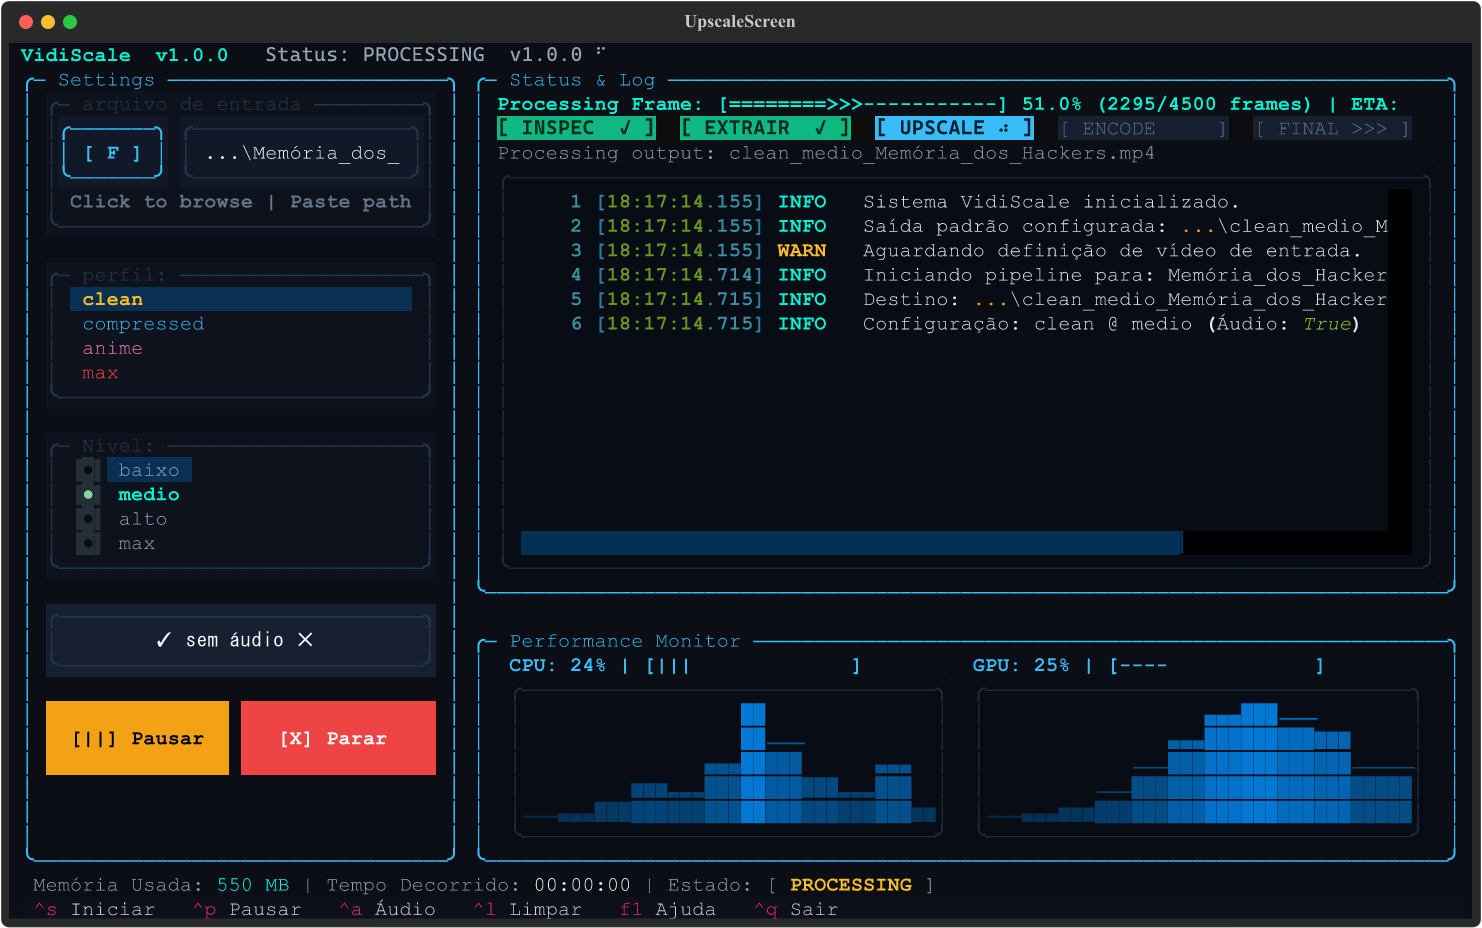
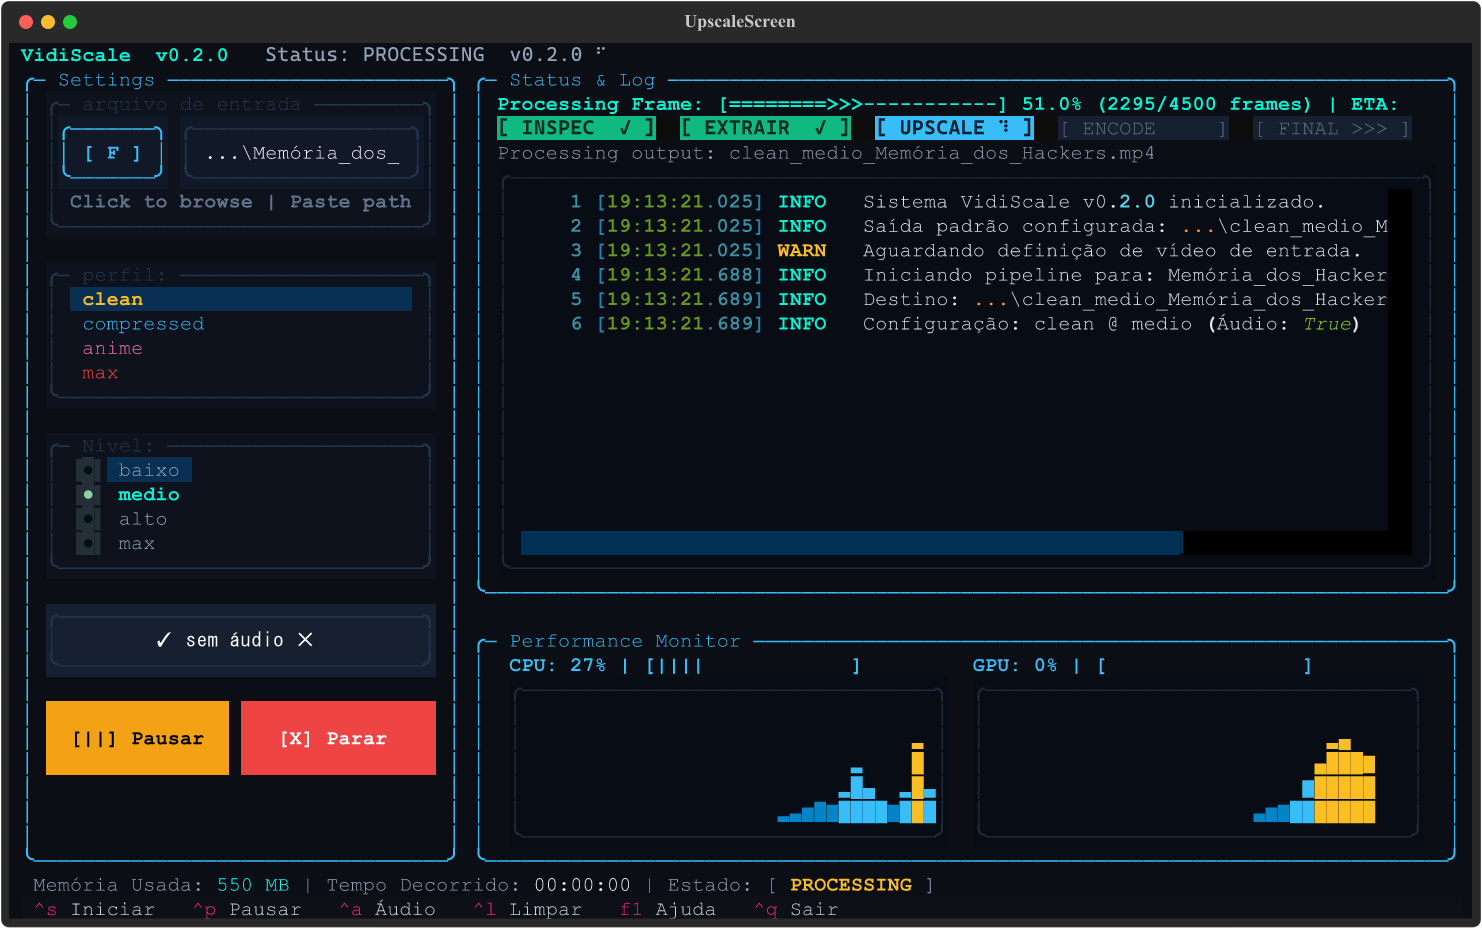
fix(ui): synchronize TUI version with pyproject and fix live sparkline monitor rendering

diff --git a/upscaler/ui/app.py b/upscaler/ui/app.py
@@ -1,5 +1,7 @@
 from __future__ import annotations
 
+import asyncio
+import importlib.metadata
 import os
 import re
 import subprocess
@@ -7,6 +9,11 @@ import sys
 import time
 from pathlib import Path
 from typing import Optional
+
+try:
+    __version__ = importlib.metadata.version("upscale-video")
+except Exception:
+    __version__ = "0.2.0"
 
 try:
     import psutil
@@ -38,7 +45,7 @@ from textual.widgets.option_list import Option
 from ..core.media import inspect_video, resolve_binary
 from ..core.models import SIMPLE_LEVELS
 from ..core.pipeline import UpscaleOptions, upscale
-from .widgets import ChevronPipeline, GradientStatusBar, NumberedLog, VideoDirectoryTree
+from .widgets import ChevronPipeline, GradientStatusBar, MetricSparkline, NumberedLog, VideoDirectoryTree
 
 
 def build_output_path(input_path: str | Path, profile: str, level: str) -> Path:
@@ -69,6 +76,24 @@ def resolve_input_path(value: str | Path | None) -> Path:
     if not raw:
         raise FileNotFoundError("Caminho de entrada vazio")
     return Path(raw).expanduser()
+
+
+def _sample_gpu_utilization() -> int:
+    try:
+        flags = subprocess.CREATE_NO_WINDOW if sys.platform == "win32" else 0
+        res = subprocess.run(
+            ["nvidia-smi", "--query-gpu=utilization.gpu", "--format=csv,noheader,nounits"],
+            capture_output=True,
+            text=True,
+            timeout=1,
+            creationflags=flags,
+        )
+        if res.returncode == 0 and res.stdout.strip():
+            return int(res.stdout.strip().split("\n")[0].strip())
+    except Exception:
+        pass
+    return 0
+
 
 
 class FileBrowserModal(ModalScreen[Optional[Path]]):
@@ -183,6 +208,7 @@ class UpscaleScreen(App[None]):
         self._monitor_timer = None
         self._cpu_history = [5, 8, 12, 18, 15, 25, 45, 30, 20, 15]
         self._gpu_history = [8, 12, 15, 22, 35, 50, 65, 70, 60, 55]
+        self._current_gpu = 0
         if self.input_path:
             self.output_path = build_output_path(self.input_path, "clean", "medio")
 
@@ -230,8 +256,8 @@ class UpscaleScreen(App[None]):
         with Container(id="root"):
             # Header Superior Minimalista
             with Horizontal(id="header-bar"):
-                yield Static("VidiScale  v1.0.0", id="app-brand")
-                yield Static("Status: READY  v1.0.0 ⠋", id="header-status")
+                yield Static(f"VidiScale  v{__version__}", id="app-brand")
+                yield Static(f"Status: READY  v{__version__} ⠋", id="header-status")
 
             # Layout Principal em 2 Colunas
             with Horizontal(id="main-layout"):
@@ -286,10 +312,10 @@ class UpscaleScreen(App[None]):
                         with Horizontal(id="perf-split"):
                             with Vertical(id="cpu-col", classes="perf-col"):
                                 yield Static("CPU: 0% | [                ]", id="cpu-label", classes="perf-col-title", markup=False)
-                                yield Sparkline(data=self._cpu_history, id="cpu-sparkline")
+                                yield MetricSparkline(data=self._cpu_history, id="cpu-sparkline")
                             with Vertical(id="gpu-col", classes="perf-col"):
                                 yield Static("GPU: 0% | [----------------]", id="gpu-label", classes="perf-col-title", markup=False)
-                                yield Sparkline(data=self._gpu_history, id="gpu-sparkline")
+                                yield MetricSparkline(data=self._gpu_history, id="gpu-sparkline")
 
             # Barra de Status e Rodapé
             with Horizontal(id="stats-strip"):
@@ -323,13 +349,13 @@ class UpscaleScreen(App[None]):
         log = self.query_one_optional("#log", NumberedLog)
         self.output_path = self._default_output_path()
         if log:
-            log.append_entry("INFO", "Sistema VidiScale inicializado.")
+            log.append_entry("INFO", f"Sistema VidiScale v{__version__} inicializado.")
             log.append_entry("INFO", f"Saída padrão configurada: {self.output_path}")
             log.append_entry("WARN", "Aguardando definição de vídeo de entrada.")
 
         self._sync_state_badges()
         self._refresh_monitor()
-        self._monitor_timer = self.set_interval(1.0, self._refresh_monitor)
+        self._monitor_timer = self.set_interval(1.0, self._periodic_monitor_tick)
 
     def _render_action_buttons(self) -> None:
         start_btn = self.query_one_optional("#start-btn", Button)
@@ -385,7 +411,7 @@ class UpscaleScreen(App[None]):
 
         header_status = self.query_one_optional("#header-status", Static)
         if header_status:
-            header_status.update(f"Status: {self.app_state}  v1.0.0 ⠋")
+            header_status.update(f"Status: {self.app_state}  v{__version__} ⠋")
 
         self._render_action_buttons()
         self._refresh_monitor()
@@ -479,6 +505,15 @@ class UpscaleScreen(App[None]):
                 log.append_entry("INFO", f"Nível de escala alterado para: {self.selected_level}")
             self.output_path = self._default_output_path()
 
+    async def _periodic_monitor_tick(self) -> None:
+        if not self.is_running:
+            return
+        try:
+            self._current_gpu = await asyncio.to_thread(_sample_gpu_utilization)
+        except Exception:
+            pass
+        self._refresh_monitor()
+
     def _refresh_monitor(self) -> None:
         if not self.is_running:
             return
@@ -493,21 +528,8 @@ class UpscaleScreen(App[None]):
         else:
             cpu = 18
 
-        # GPU real via nvidia-smi
-        gpu = 0
-        try:
-            flags = subprocess.CREATE_NO_WINDOW if sys.platform == "win32" else 0
-            res = subprocess.run(
-                ["nvidia-smi", "--query-gpu=utilization.gpu", "--format=csv,noheader,nounits"],
-                capture_output=True,
-                text=True,
-                timeout=1,
-                creationflags=flags,
-            )
-            if res.returncode == 0 and res.stdout.strip():
-                gpu = int(res.stdout.strip().split("\n")[0].strip())
-        except Exception:
-            gpu = 0
+        # GPU real via cache atualizado pelo tick periódico em thread de background
+        gpu = self._current_gpu
 
         self._cpu_history.append(cpu)
         if len(self._cpu_history) > 30:
@@ -519,11 +541,17 @@ class UpscaleScreen(App[None]):
 
         cpu_spark = self.query_one_optional("#cpu-sparkline", Sparkline)
         if cpu_spark:
-            cpu_spark.data = list(self._cpu_history)
+            if hasattr(cpu_spark, "add_value"):
+                cpu_spark.add_value(cpu)
+            else:
+                cpu_spark.data = list(self._cpu_history)
 
         gpu_spark = self.query_one_optional("#gpu-sparkline", Sparkline)
         if gpu_spark:
-            gpu_spark.data = list(self._gpu_history)
+            if hasattr(gpu_spark, "add_value"):
+                gpu_spark.add_value(gpu)
+            else:
+                gpu_spark.data = list(self._gpu_history)
 
         # Mini gauge bars
         cpu_len = 16
@@ -652,7 +680,7 @@ class UpscaleScreen(App[None]):
     def action_show_help(self) -> None:
         log = self.query_one_optional("#log", NumberedLog)
         if log:
-            log.append_entry("INFO", "Atalhos: ^s Iniciar | ^p Pausar | ^r Retomar | ^a Áudio | ^l Limpar | ^q Sair")
+            log.append_entry("INFO", f"VidiScale v{__version__} | Atalhos: ^s Iniciar | ^p Pausar | ^r Retomar | ^a Áudio | ^l Limpar | ^q Sair")
 
     def action_quit_app(self) -> None:
         now = time.monotonic()

diff --git a/upscaler/ui/widgets.py b/upscaler/ui/widgets.py
@@ -6,7 +6,7 @@ from typing import Iterable
 
 from rich.text import Text
 from textual.reactive import reactive
-from textual.widgets import DirectoryTree, RichLog, Static
+from textual.widgets import DirectoryTree, RichLog, Sparkline, Static
 
 
 class ChevronPipeline(Static):
@@ -100,3 +100,74 @@ class VideoDirectoryTree(DirectoryTree):
             p for p in paths
             if p.is_dir() or p.suffix.lower() in self.VIDEO_EXTENSIONS
         ]
+
+
+class MetricSparkline(Sparkline):
+    """Sparkline de métrica contínua com escala fixa de 0 a 100%, renderização multi-linha e auto-refresh."""
+
+    BAR_TIERS = [" ", " ", "▂", "▃", "▄", "▅", "▆", "▇", "█"]
+
+    def __init__(
+        self,
+        data: Iterable[float] | None = None,
+        *,
+        id: str | None = None,
+        classes: str | None = None,
+    ) -> None:
+        init_data = list(data) if data is not None else [0.0] * 24
+        super().__init__(data=init_data, id=id, classes=classes)
+        self._metric_data: list[float] = list(init_data)
+
+    @property
+    def data(self) -> list[float]:
+        return self._metric_data
+
+    @data.setter
+    def data(self, values: Iterable[float]) -> None:
+        self._metric_data = [float(v) for v in values]
+        self.refresh()
+
+    def add_value(self, val: float, max_len: int = 24) -> None:
+        self._metric_data.append(float(val))
+        if len(self._metric_data) > max_len:
+            self._metric_data = self._metric_data[-max_len:]
+        self.refresh()
+
+    def render(self) -> Text:
+        width = max(1, self.content_size.width or len(self._metric_data))
+        height = max(1, self.content_size.height or 1)
+        pts = self._metric_data[-width:] if len(self._metric_data) >= width else self._metric_data
+        if len(pts) < width:
+            pts = [0.0] * (width - len(pts)) + list(pts)
+
+        lines: list[Text] = []
+        for i in reversed(range(height)):
+            row_min = i * (100.0 / height)
+            row_max = (i + 1) * (100.0 / height)
+            row_text = Text()
+            for v in pts:
+                pct = max(0.0, min(100.0, float(v)))
+                if pct >= row_max:
+                    char = "█"
+                elif pct <= row_min:
+                    char = " " if i > 0 else " "
+                else:
+                    ratio = (pct - row_min) / (row_max - row_min)
+                    idx = int(round(ratio * (len(self.BAR_TIERS) - 1)))
+                    char = self.BAR_TIERS[idx]
+
+                if pct >= 80:
+                    style = "bold #ef4444"
+                elif pct >= 50:
+                    style = "#fbbf24"
+                elif pct >= 20:
+                    style = "#38bdf8"
+                elif pct > 0:
+                    style = "#0284c7"
+                else:
+                    style = "#1e293b" if i == 0 else "default"
+                row_text.append(char, style=style)
+            lines.append(row_text)
+
+        return Text("\n").join(lines)
+

diff --git a/upscaler/__init__.py b/upscaler/__init__.py
@@ -1,11 +1,19 @@
 from __future__ import annotations
 
+import importlib.metadata
+
+try:
+    __version__ = importlib.metadata.version("upscale-video")
+except Exception:
+    __version__ = "0.2.0"
+
 from .core.media import MediaError, VideoMetadata, finalize_video, inspect_video, preprocess_video, resolve_binary
 from .core.models import PROFILES, PROFILE_ALIASES, SIMPLE_LEVELS, ModelProfile, get_profile, resolve_profile_name, tile_candidates
 from .core.pipeline import PipelineError, UpscaleOptions, UpscaleResult, ensure_output_dir, upscale
 from .ui.app import UpscaleScreen, launch_tui
 
 __all__ = [
+    "__version__",
     "MediaError",
     "VideoMetadata",
     "finalize_video",

diff --git a/tests/test_tui.py b/tests/test_tui.py
@@ -37,6 +37,16 @@ class TestTuiHelpers(unittest.TestCase):
         with self.assertRaises(FileNotFoundError):
             resolve_input_path(None)
 
+    def test_version_matches_pyproject(self) -> None:
+        import tomllib
+        import upscaler
+
+        pyproject = Path(__file__).resolve().parent.parent / "pyproject.toml"
+        with open(pyproject, "rb") as f:
+            cfg = tomllib.load(f)
+        self.assertEqual(upscaler.__version__, cfg["project"]["version"])
+
+
 
 class TestTuiScreenAsync(unittest.IsolatedAsyncioTestCase):
     async def test_tui_composition_and_mounting(self) -> None:
